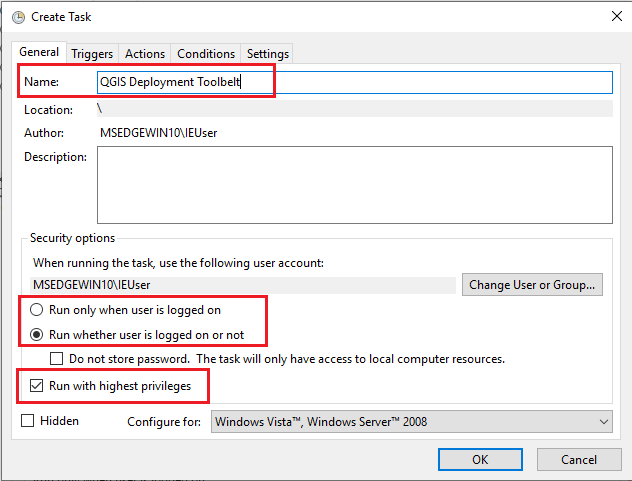
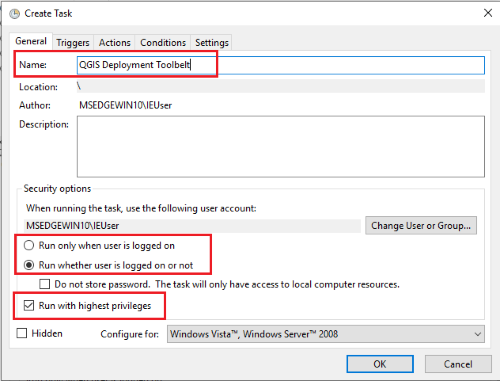
Reduction of the size of the images and removal of the tags <br>

diff --git a/docs/usage/schedule_deployment.md b/docs/usage/schedule_deployment.md
@@ -8,13 +8,9 @@ You can schedule the deployment through QGIS Deployment Toolbelt using a task sc
 
     ![Task scheduler](/static/task_scheduler_windows_app.png)
 
-<br>
-
 2. Click on **Create Task**
 
    ![Create_task](/static/task_scheduler_windows_create_task.png)
-
-<br>
 
 3. Fill in the **general information**
 
@@ -22,15 +18,11 @@ You can schedule the deployment through QGIS Deployment Toolbelt using a task sc
 
    ![General_information](/static/task_scheduler_windows_create_task_general.png)
 
-<br>
-
-4. **Launch condition**
+4. **Launch condition** 
 
    Define the conditions for launching the task: at login, once a day, once a week...
 
-   ![Launch_condition](/static/task_scheduler_windows_create_task_trigger.png)
-
-<br>
+   ![Launch_condition](/static/task_scheduler_windows_create_task_trigger.png) 
 
 5. **Action** performed
 
@@ -40,8 +32,6 @@ You can schedule the deployment through QGIS Deployment Toolbelt using a task sc
    ![Action](/static/task_scheduler_windows_create_task_action.png)
 
    More parameters are available in the last tabs: **Conditions** and **Settings**
-
-<br>
 
 6. **Monitoring**
 
